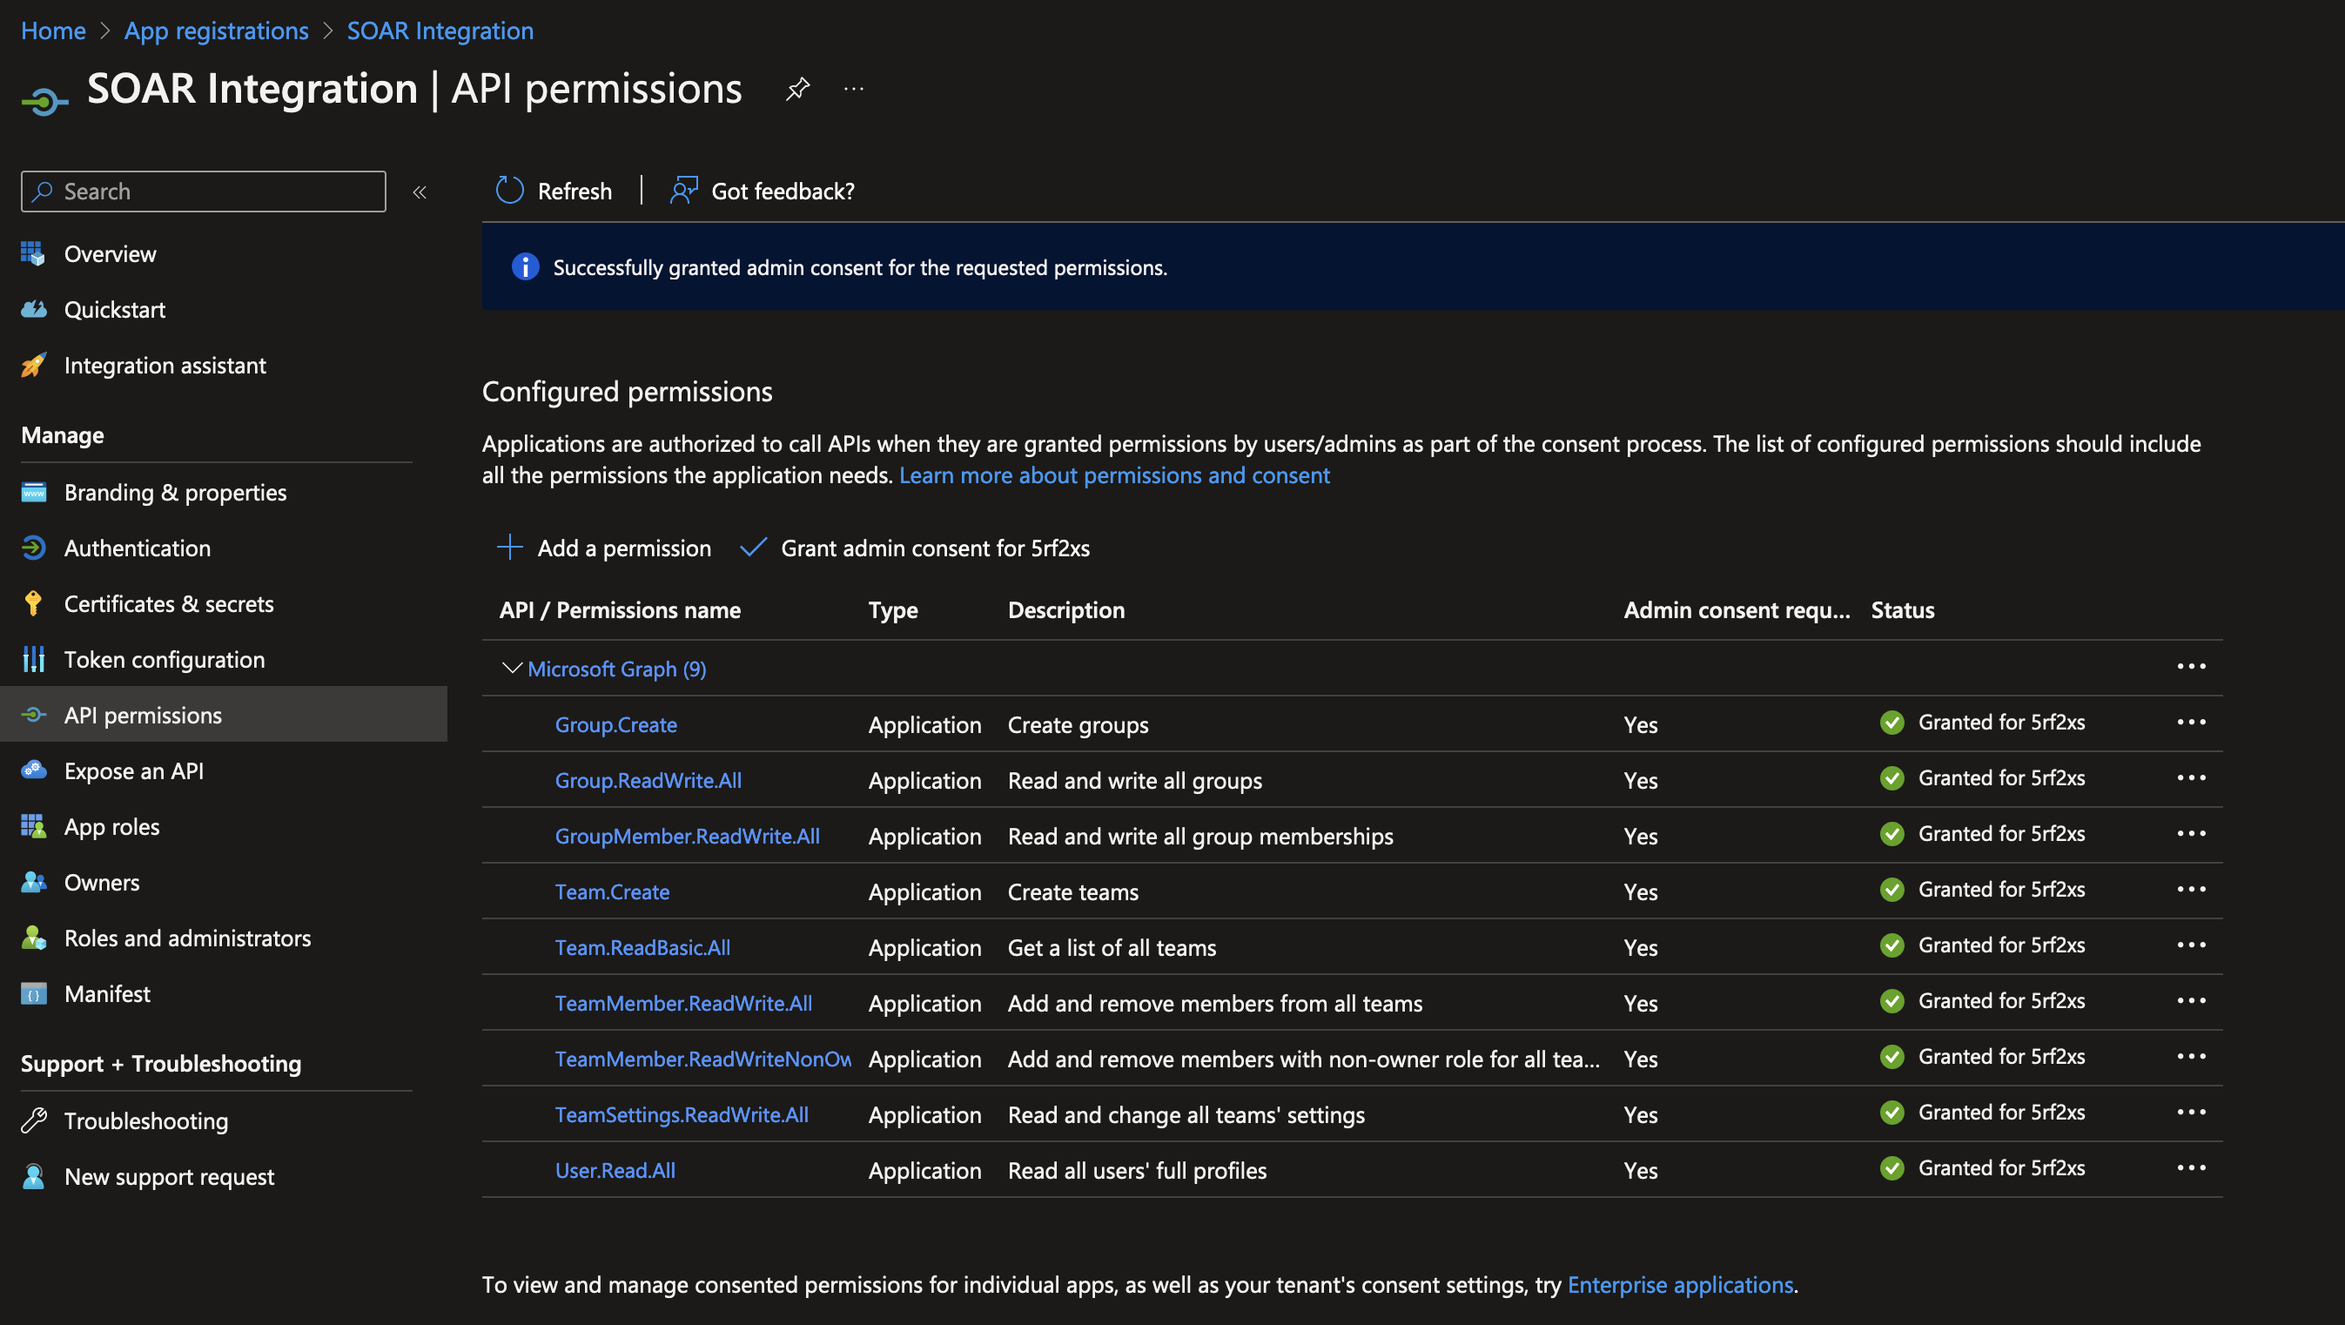
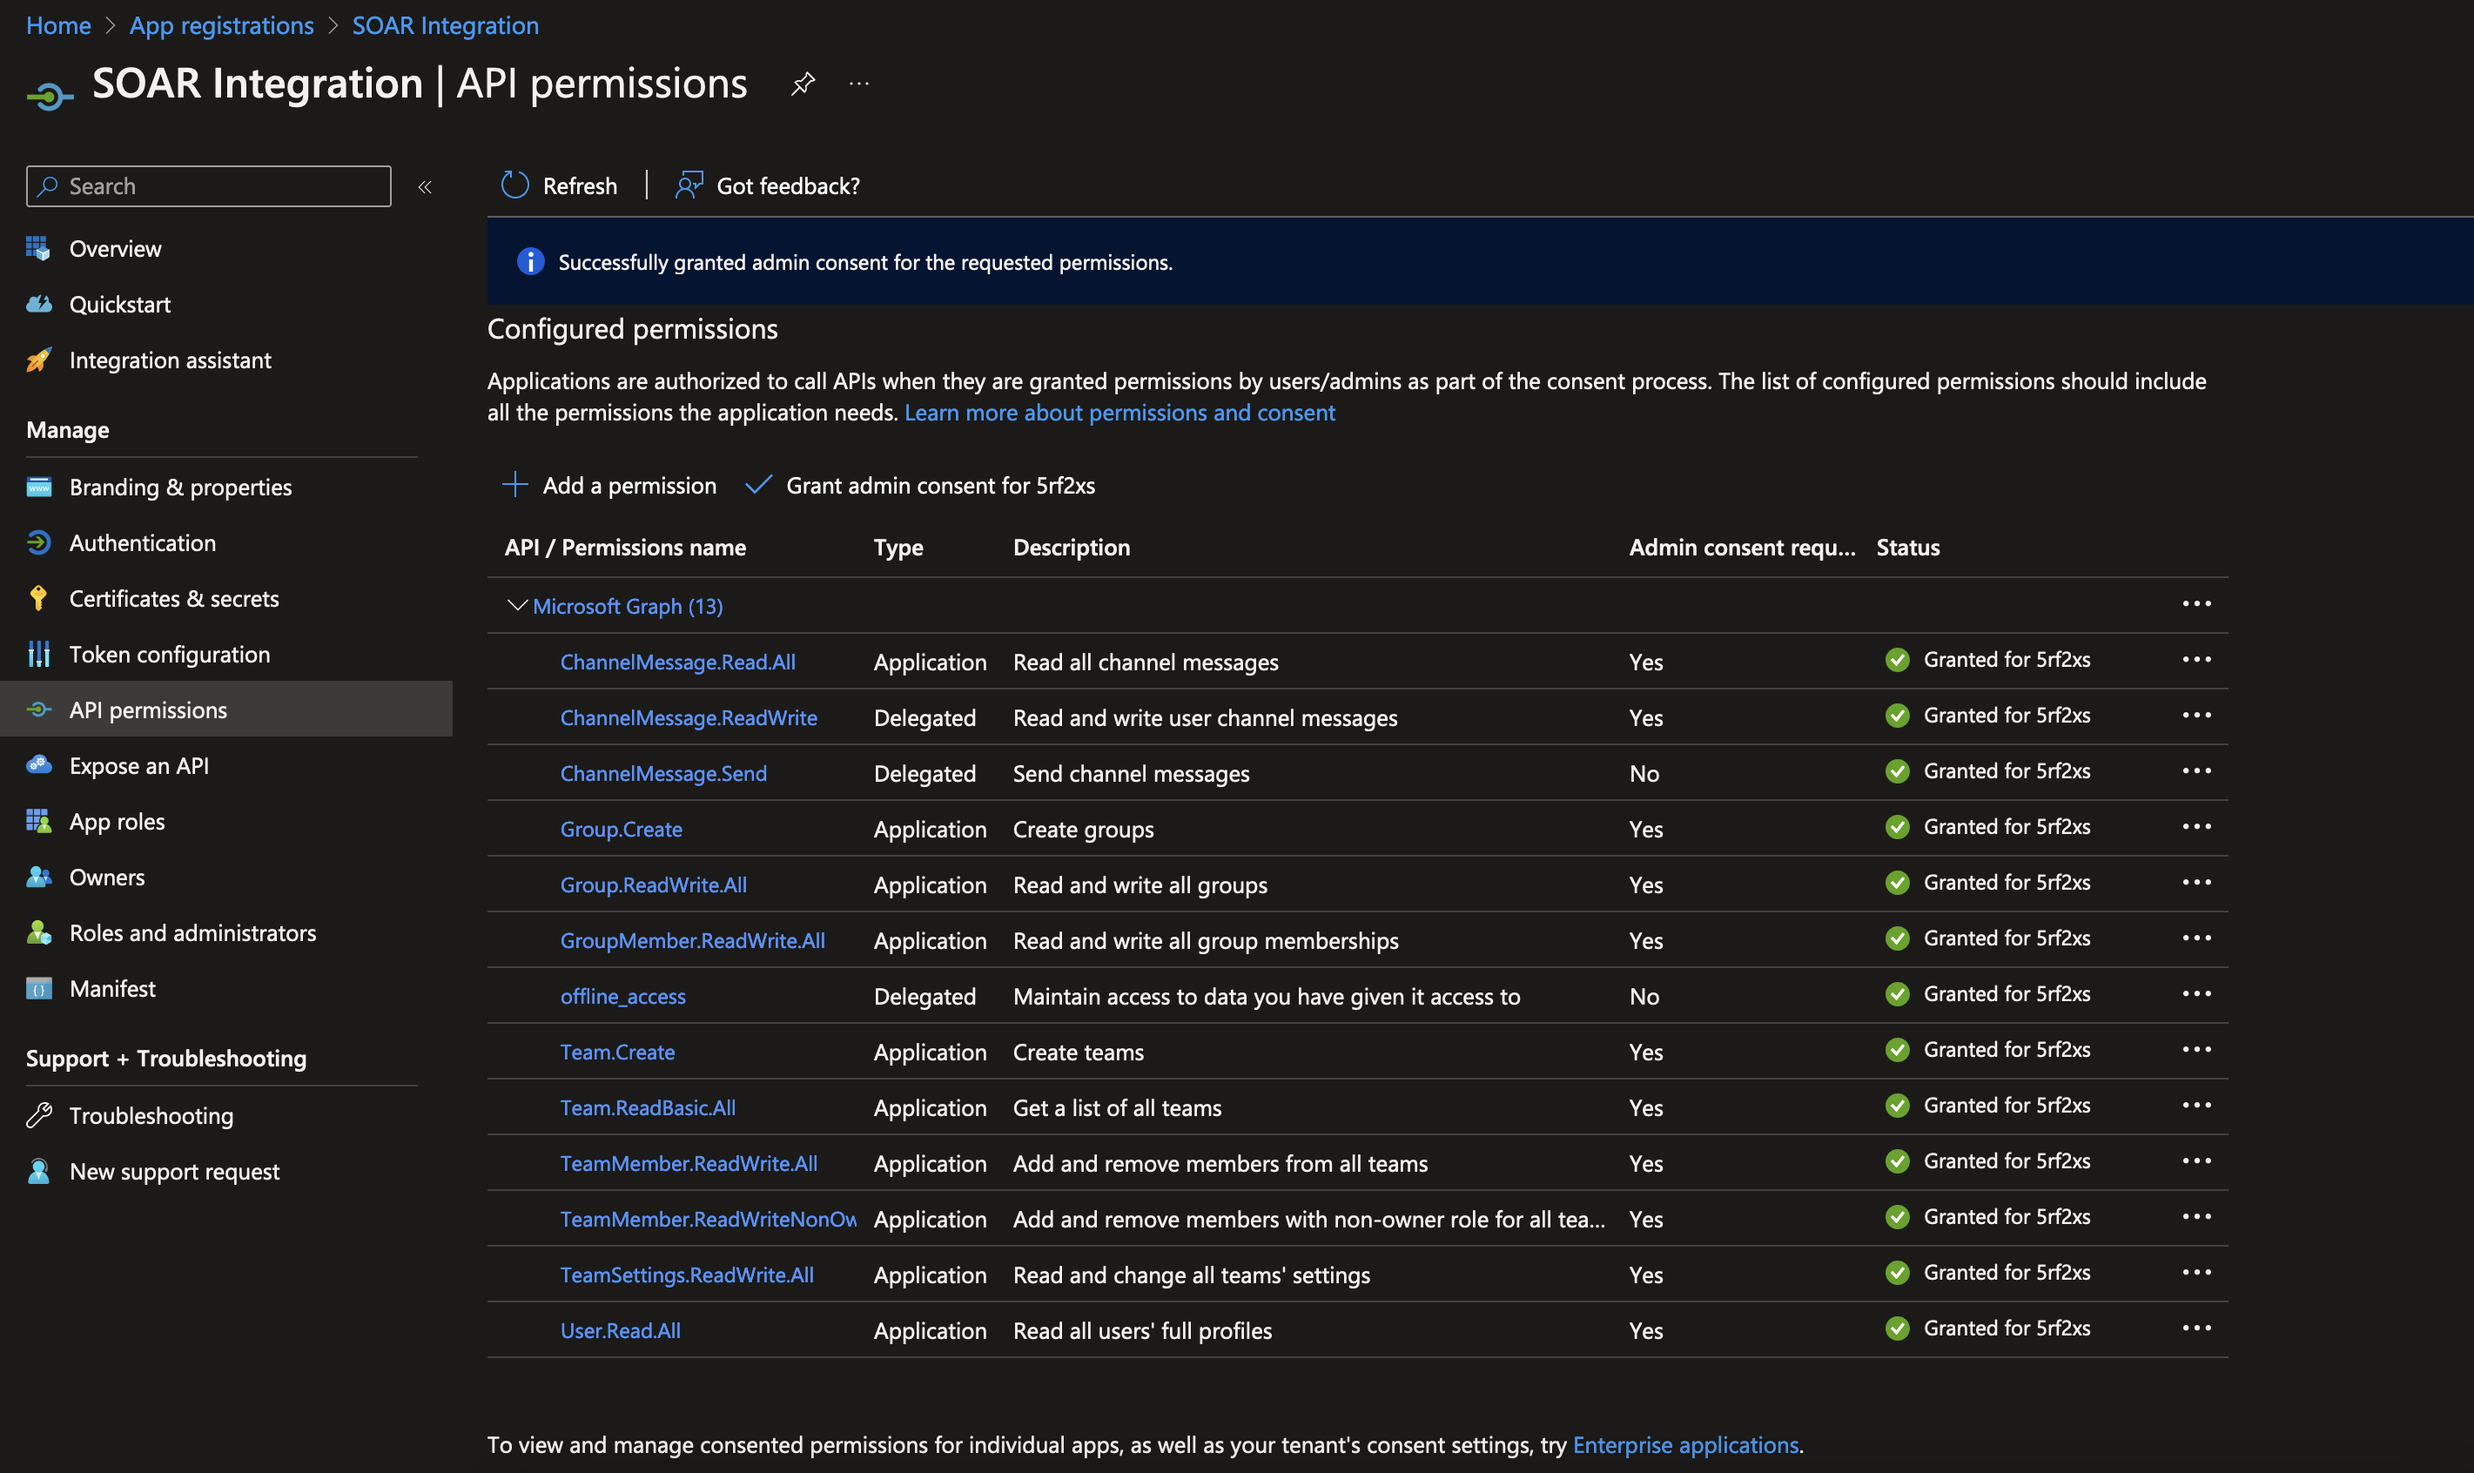
SOARAPPS-6339 fn_teams read_message complete [build-dev-app]  [dev-deps]

diff --git a/fn_teams/README.md b/fn_teams/README.md
@@ -86,6 +86,7 @@ If deploying to a SOAR platform with an integration server, the requirements are
   | ---- | ----------- |
   | Org Data | Read |
   | Function | Read |
+  | Incident | Read |
   | Group | Read |
   | Users | Read |
 
@@ -97,6 +98,7 @@ The following SOAR platform guides provide additional information:
 The above guides are available on the IBM Documentation website at [ibm.biz/soar-docs](https://ibm.biz/soar-docs). On this web page, select your SOAR platform version. On the follow-on page, you can find the _App Host Deployment Guide_ or _Integration Server Guide_ by expanding **Apps** in the Table of Contents pane. The System Administrator Guide is available by expanding **System Administrator**.
 
 ### Cloud Pak for Security
+
 If you are deploying to IBM Cloud Pak for Security, the requirements are:
 * IBM Cloud Pak for Security >= 1.9.
 * Cloud Pak is configured with an App Host.
@@ -165,17 +167,22 @@ The application requires admins consent to access a protected resource, such as 
 
 ### List of required permissions
 
-| Category | API/Permission | Description |
-| ------ | ------ | ------- |
-| Group | `Create` | Create groups |
-| Group | `ReadWrite.All` | Read and write all groups |
-| GroupMember | `ReadWrite.All` | Read and write all group memberships |
-| Team | `Create` | Create teams |
-| Team | `ReadBasic.All` | Get a list of all teams |
-| TeamMember | `ReadWrite.All` | Add and remove members from all teams |
-| TeamMember | `ReadWriteNonOwnerRole.All` | Add and remove members with non-owner role |
-| TeamSettings | `ReadWrite.All` | Read and change all teams' settings |
-| User | `Read.All` | Read all users' full profiles |
+| Category | API/Permission | Permission Type | Description |
+| ------ | ------ | ------- | ------- |
+| Group | `Create` |  Application | Create groups |
+| Group | `ReadWrite.All` | Application | Read and write all groups |
+| GroupMember | `ReadWrite.All` | Application | Read and write all group memberships |
+| Team | `Create` | Application | Create teams |
+| Team | `ReadBasic.All` | Application | Get a list of all teams |
+| TeamMember | `ReadWrite.All` | Application | Add and remove members from all teams |
+| TeamMember | `ReadWriteNonOwnerRole.All` | Application | Add and remove members with non-owner role |
+| TeamSettings | `ReadWrite.All` | Application | Read and change all teams' settings |
+| User | `Read.All` | Application | Read all users' full profiles |
+| ChannelMessage | `Read.All` | Application | Read all messages |
+| ChannelMessage | `ReadWrite` | Delegated | Read and write user channel messages |
+| ChannelMessage | `Send` | Delegated | Send channel messages |
+| offline_access | `--` | Delegated | Maintain access to data you have given it access to |
+
 
 <p align="center">
 <img src="./doc/screenshots/app_scopes_permissions.png" />
@@ -1362,22 +1369,24 @@ if not results.success:
 ## Rules
 | Rule Name | Object | Workflow Triggered |
 | --------- | ------ | ------------------ |
-| MS Teams: Archive Team From Incident | incident | `common_archive_unarchive_a_microsoft_team` |
+| MS Teams: Archive Team | incident | `common_archive_unarchive_a_microsoft_team` |
 | MS Teams: Archive Team From Task | task | `common_archive_unarchive_a_microsoft_team` |
-| MS Teams: Create Channel From Incident | incident | `common_create_a_teams_channel` |
+| MS Teams: Create Channel | incident | `common_create_a_teams_channel` |
 | MS Teams: Create Channel From Task | task | `common_create_a_teams_channel` |
-| MS Teams: Create Group From Incident | incident | `incident_create_a_microsoft_group` |
+| MS Teams: Create Group | incident | `incident_create_a_microsoft_group` |
 | MS Teams: Create Group From Task | task | `task_create_a_microsoft_group` |
-| MS Teams: Create Team From Incident | incident | `incident_create_a_microsoft_team` |
+| MS Teams: Create Team | incident | `incident_create_a_microsoft_team` |
 | MS Teams: Create Team From Task | task | `task_create_a_microsoft_team` |
-| MS Teams: Delete Channel From Incident | incident | `common_delete_a_teams_channel` |
+| MS Teams: Delete Channel | incident | `common_delete_a_teams_channel` |
 | MS Teams: Delete Channel From Task | task | `common_delete_a_teams_channel` |
-| MS Teams: Delete Group From Incident | incident | `common_delete_a_microsoft_group` |
+| MS Teams: Delete Group | incident | `common_delete_a_microsoft_group` |
 | MS Teams: Delete Group From Task | task | `common_delete_a_microsoft_group` |
-| MS Teams: Enable Teams for Group From Incident | incident | `common_enable_microsoft_team_for_group` |
+| MS Teams: Enable Teams for Group | incident | `common_enable_microsoft_team_for_group` |
 | MS Teams: Enable Teams for Group From Task | task | `common_enable_microsoft_team_for_group` |
-| MS Teams: Post Incident Information to Teams | incident | `incident_post_message_to_teams` |
-| MS Teams: Post Task Information to Teams | task | `task_post_message_to_teams` |
+| MS Teams: Post Incident Information | incident | `incident_post_message_to_teams` |
+| MS Teams: Post Task Information | task | `task_post_message_to_teams` |
+| MS Teams: Read Channel Messages | incident | `common_read_a_channels_messages` |
+| MS Teams: Read Channel Messages From task | incident | `common_read_a_channels_messages` |
 
 ---
 
